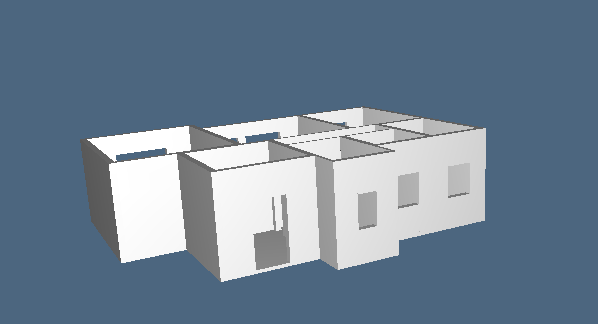
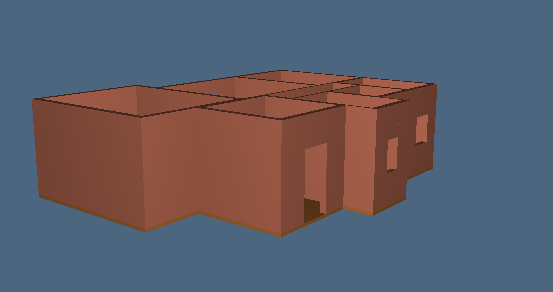
es 2-3
completamento anche degli esercizi 2 e 3, e aggiornamento delle immagini

diff --git a/2014-05-16/python/exercise1.py b/2014-05-16/python/exercise1.py
@@ -16,6 +16,14 @@ from boolean import vertexSieve
 
 from architectural import *
 from sysml import *
+
+#funzione utilita' per i colori in pyplasm:
+def colors (r,g,b):
+    red = 1.0/255.0 * r
+    green = 1.0/255.0 * g
+    blue = 1.0/255.0 * b 
+    return [red,green,blue]
+
 DRAW = COMP([VIEW,STRUCT,MKPOLS])
 
 V = [[3,0],[7,0],[11,0],[0,1],[3,1],[7,1],[0,5],[2,5],[3,5],[6,5],[7,5],[9,5],[11,5],[2,6],[4,6],[6,6],[0,8],[2,8],[4,8],[6,8],[9,8],[4,9],[6,9]]
@@ -44,7 +52,8 @@ assembly2D = evalStruct(plan)
 assembly1D = larCells(face2edge)(assembly2D)
 mod_1 = larQuote1D( 1*[0.1,-1.0] )
 assembly3D = larBinOps(larModelProduct)(assembly2D)(mod_1)
-base3D = STRUCT(CAT(AA(MKPOLS)(assembly3D)))
+
+base3D = COLOR(colors(167,101,43))(T(3)(-0.1)(STRUCT(CAT(AA(MKPOLS)(assembly3D)))))
 #per i vari blocchi singoli:
 
 #costruzione del blocco della cucina:
@@ -63,9 +72,6 @@ diagram = assemblyDiagramInit([3,1,3])([[0.5,1,0.5],[.1],[1,1,1]])
 kitchen = diagram2cell(diagram,kitchen,toMerge)
 toRemove = [15]
 kitchen= kitchen[0], [cell for k,cell in enumerate(kitchen[1]) if not (k in toRemove)]
-hpc = SKEL_1(STRUCT(MKPOLS(kitchen)))
-hpc = cellNumbering (kitchen,hpc)(range(len(kitchen[1])),CYAN,2)
-#VIEW(hpc)
 kitchen_3D = T(2)(5)(STRUCT(MKPOLS(kitchen)))
 
 
@@ -87,9 +93,6 @@ diagram = assemblyDiagramInit([3,1,3])([[0.5,1,0.5],[.1],[1,1,1]])
 bath = diagram2cell(diagram,bath,toMerge)
 toRemove = [15]
 bath = bath[0], [cell for k,cell in enumerate(bath[1]) if not (k in toRemove)]
-hpc = SKEL_1(STRUCT(MKPOLS(bath)))
-hpc = cellNumbering (bath,hpc)(range(len(bath[1])),CYAN,2)
-#VIEW(hpc)
 bath_3D = T([2,1])([6,2])(STRUCT(MKPOLS(bath)))
 
 
@@ -109,9 +112,6 @@ bed1 = bed1[0], [cell for k,cell in enumerate(bed1[1]) if not (k in toRemove)]
 toMerge = 3
 diagram = assemblyDiagramInit([3,1,3])([[0.8,1.4,0.8],[.1],[1,1.5,0.5]])
 bed1 = diagram2cell(diagram,bed1,toMerge)
-hpc = SKEL_1(STRUCT(MKPOLS(bed1)))
-hpc = cellNumbering (bed1,hpc)(range(len(bed1[1])),CYAN,2)
-#VIEW(hpc)
 toRemove = [15]
 bed1 = bed1[0], [cell for k,cell in enumerate(bed1[1]) if not (k in toRemove)]
 bed1_3D = T(2)(1)(STRUCT(MKPOLS(bed1)))
@@ -133,9 +133,6 @@ diagram = assemblyDiagramInit([5,1,3])([[0.8,1.5,0.3,0.8,0.6],[.1],[1,1.5,0.5]])
 bed2 = diagram2cell(diagram,bed2,toMerge)
 toRemove = [15,20,21]
 bed2 = bed2[0], [cell for k,cell in enumerate(bed2[1]) if not (k in toRemove)]
-hpc = SKEL_1(STRUCT(MKPOLS(bed2)))
-hpc = cellNumbering (bed2,hpc)(range(len(bed2[1])),CYAN,2)
-#VIEW(hpc)
 bed2_3D = T([2,1])([1,3])(STRUCT(MKPOLS(bed2)))
 
 
@@ -157,9 +154,6 @@ diagram = assemblyDiagramInit([3,1,3])([[1,1,1],[.1],[1,1,1]])
 bed3 = diagram2cell(diagram,bed3,toMerge)
 toRemove = [15]
 bed3 = bed3[0], [cell for k,cell in enumerate(bed3[1]) if not (k in toRemove)]
-hpc = SKEL_1(STRUCT(MKPOLS(bed3)))
-hpc = cellNumbering (bed3,hpc)(range(len(bed3[1])),CYAN,2)
-#VIEW(hpc)
 bed3_3D = T([2,1])([6,4])(STRUCT(MKPOLS(bed3)))
 
 
@@ -244,12 +238,10 @@ sala = sala[0], [cell for k,cell in enumerate(sala[1]) if not (k in toRemove)]
 toMerge = 3
 diagram = assemblyDiagramInit([3,1,3])([[1,2,1],[.1],[1,1.3,0.7]])
 sala = diagram2cell(diagram,sala,toMerge)
-hpc = SKEL_1(STRUCT(MKPOLS(sala)))
-hpc = cellNumbering (sala,hpc)(range(len(sala[1])),CYAN,2)
-#VIEW(hpc)
 toRemove = [17]
 sala = sala[0], [cell for k,cell in enumerate(sala[1]) if not (k in toRemove)]
 sala_3D = T(1)(7)(STRUCT(MKPOLS(sala)))
 
-home = (STRUCT([base3D,kitchen_3D, bath_3D, bed1_3D,bed2_3D,bed3_3D, ing2_3D, ing1_3D, bal_3D, sala_3D]))
-VIEW(home)
+wall = COLOR(colors(178,102,79))(STRUCT([kitchen_3D, bath_3D, bed1_3D,bed2_3D,bed3_3D, ing2_3D, ing1_3D, bal_3D, sala_3D]))
+home = STRUCT([wall,base3D])
+#VIEW(home)

diff --git a/2014-05-16/python/exercise3.py b/2014-05-16/python/exercise3.py
@@ -1,0 +1,23 @@
+'''
+Created on 16/mag/2014
+
+@author: Manuel
+'''
+from exercise2 import *
+
+#funzione per rimuovere la stessa cella da un insieme di blocchi
+def remove_cell(masters,toRemove):
+    list = []
+    for x in masters:
+        V,CV = x
+        x = V,[cell for k,cell in enumerate(CV) if not (k in toRemove)]
+        list.append(x)
+    return list
+
+#funzione per inserire uno stesso diagramma in un insieme di blocchi
+def merge_cell(masters,toMerge,diagram):
+    list = []
+    for x in masters:
+        list.append(diagram2cell(diagram,x,toMerge))
+    return list
+        
